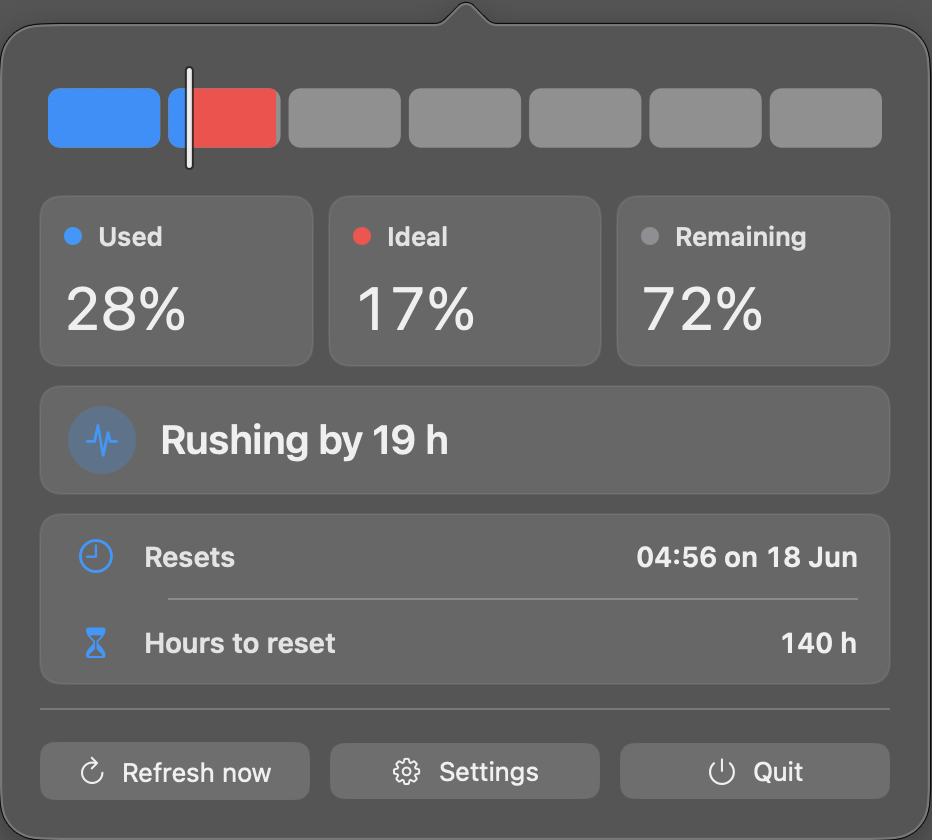
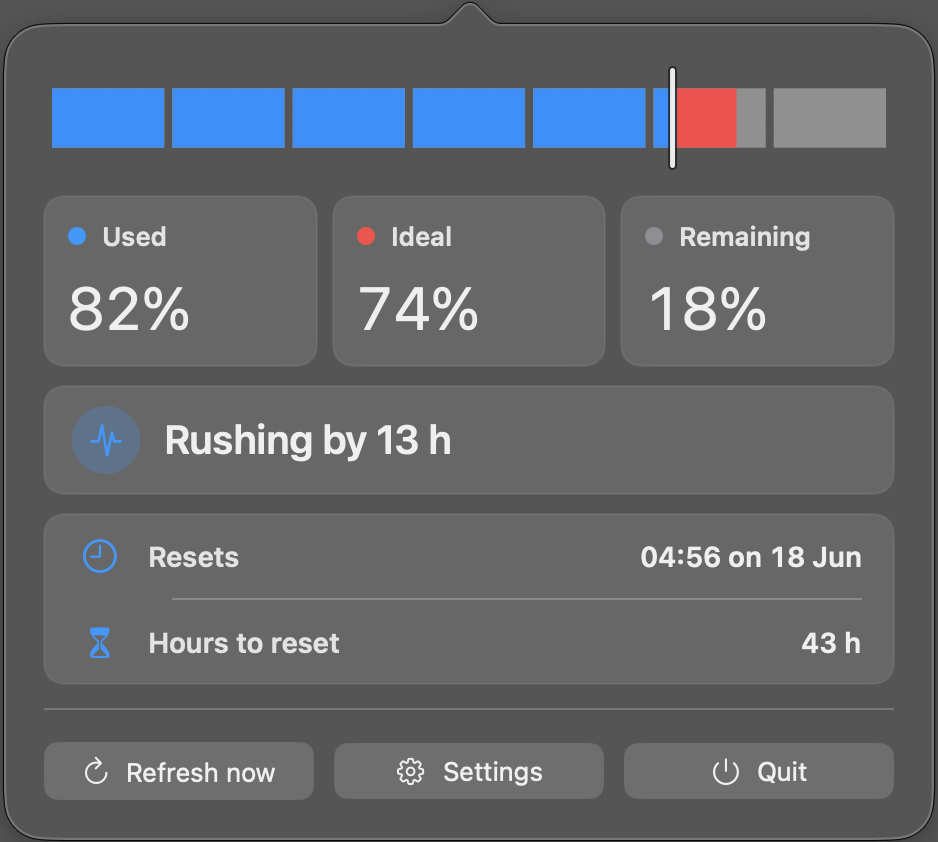
Document release build flow

diff --git a/README.md b/README.md
@@ -2,7 +2,11 @@
 
 Unofficial macOS menu bar app that shows whether your Codex weekly usage is below pace, on pace, or above pace.
 
-![Codex Pace Bar popover](docs/screenshots/popover.png?v=2026-06-12)
+## Download
+
+**[Download the latest ready build for macOS](https://github.com/awronski/codex-pace-bar/releases/latest/download/CodexPaceBar.dmg)**
+
+![Codex Pace Bar popover](docs/screenshots/popover.png?v=2026-06-16)
 
 Codex Pace Bar answers one question at a glance: are you using your weekly Codex limit faster or slower than the current reset window pace?
 
@@ -14,20 +18,24 @@ Codex Pace Bar answers one question at a glance: are you using your weekly Codex
 
 ## Status
 
-This is an early local-first app. The local package script ad-hoc signs the app bundle, but releases are not Developer ID signed or notarized yet.
+Ready DMG builds are available from GitHub Releases. The package script ad-hoc signs local builds by default and can use a Developer ID signing identity for release builds.
 
-The Codex app-server API is experimental and may change. If the rate-limit response shape changes, this app may need updates.
+Notarization is the remaining release step for smoother first launch on other Macs. The app also depends on Codex's local app-server API, so future Codex CLI changes may require an app update.
 
 ## Requirements
 
+### To Run
+
 - macOS 15.0 or newer.
-- Swift 6 toolchain / Xcode command line build tools.
 - [Codex CLI](https://developers.openai.com/codex/cli) installed and already logged in.
-- A Codex app-server that supports `codex app-server --listen stdio://`.
 
 Codex Pace Bar starts the local Codex app-server through the Codex CLI. By default it looks for `codex` on your `PATH`, then checks common install locations such as `/opt/homebrew/bin/codex`, `/usr/local/bin/codex`, `~/.local/bin/codex`, mise-managed `npm-openai-codex` installs, `~/.npm-global/bin/codex`, and `~/.bun/bin/codex`.
 
 If your Codex CLI is installed somewhere else, set the exact executable path in Settings.
+
+### To Build
+
+- Swift 6 toolchain / Xcode command line build tools.
 
 ## What It Shows
 
@@ -73,15 +81,21 @@ Depending on your local Swift toolchain setup, `DEVELOPER_DIR` may not be needed
 
 ## Package DMG
 
-Create a local ad-hoc-signed DMG for GitHub Releases:
+Create a local ad-hoc-signed DMG:
 
 ```bash
 ./script/package_dmg.sh
 ```
 
-The script builds the app in release mode, ad-hoc signs the app bundle, and writes `dist/CodexPaceBar.dmg`.
+Create a Developer ID-signed DMG for release:
 
-Ad-hoc signing is enough to seal the local app bundle, but it is not a substitute for Apple Developer ID signing and notarization. Public downloads may still show Gatekeeper warnings until release builds are Developer ID signed and notarized.
+```bash
+SIGNING_IDENTITY="Developer ID Application: Your Name (TEAMID)" ./script/package_dmg.sh
+```
+
+The script builds the app in release mode, signs the app bundle, and writes `dist/CodexPaceBar.dmg`.
+
+Ad-hoc signing is enough to seal the local app bundle, but it is not a substitute for Apple Developer ID signing and notarization. Public downloads may still show Gatekeeper warnings until release builds are notarized.
 
 ## Privacy
 
@@ -107,8 +121,7 @@ Codex, OpenAI, and related names are trademarks or registered trademarks of thei
 - The app depends on Codex's local app-server interface.
 - The app-server API is experimental.
 - The app currently targets macOS 15.0+.
-- Release builds are ad-hoc signed only, not Developer ID signed or notarized.
-- Public downloads may require an explicit Gatekeeper override until notarized release builds are available.
+- Release builds need notarization before public downloads avoid Gatekeeper warnings.
 
 ## License
 